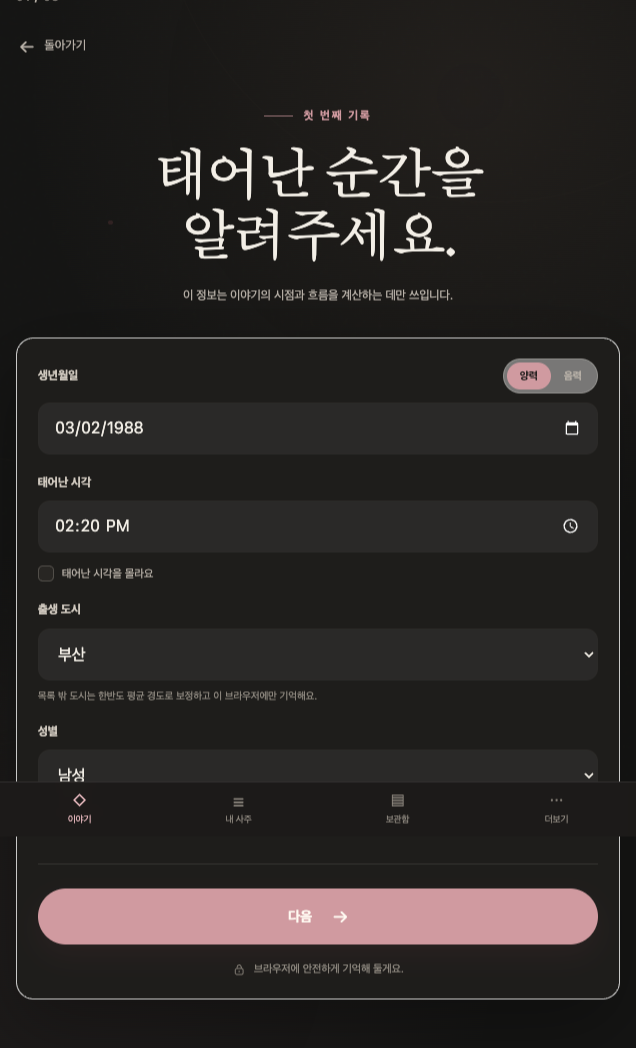
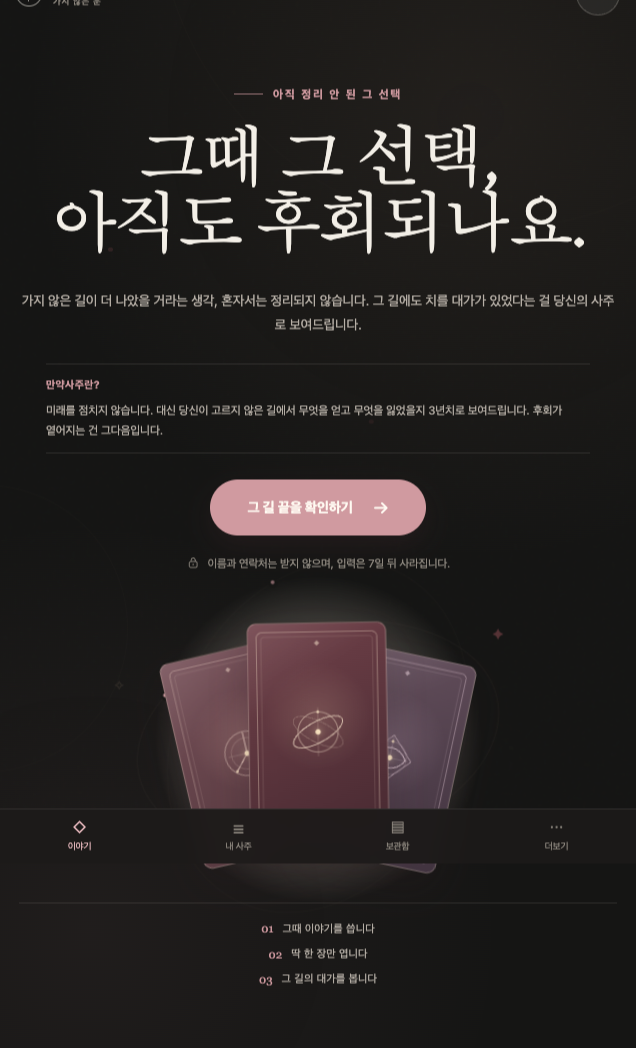
chore: 새 카피 반영해 제출용 스크린샷 재촬영
카피를 바꿨으니 이전 스크린샷은 낡았다. 심사에 올린 화면과 실제 앱이
다르면 그 자체가 문제다.

배포 리비전 014 를 실제로 캡처했다. 랜딩 헤드라인이 '그때 그 선택,
아직도 후회되나요.' 로 바뀐 것, 3단계가 '그때 이야기를 씁니다 / 딱 한
장만 엽니다 / 그 길의 대가를 봅니다' 로 바뀐 것을 화면에서 확인했다.

Claude-Session: https://claude.ai/code/session_013mm5WUY4YboMtXpit5km98

diff --git a/scripts/test-logo-candidates.tsx b/scripts/test-logo-candidates.tsx
@@ -1,0 +1,114 @@
+import { mkdirSync, writeFileSync } from "node:fs";
+import { resolve } from "node:path";
+import { ImageResponse } from "next/og";
+
+const OUT = resolve(process.cwd(), "scratch/logo-candidates");
+const SIZE = 600;
+
+// Color tokens
+const WINE = "#713e43";
+const WINE_DARK = "#d09aa0";
+const PAPER = "#f6f3ed";
+const PAPER_DARK = "#151514";
+const INK = "#20201e";
+const INK_DARK = "#f6f3ed";
+
+/**
+ * Supreme Harmonic Fork (수학적 조화와 황금비율의 만약사주 로고)
+ */
+function SupremeHarmonicFork({ mode }: { mode: "light" | "dark" }) {
+  const bg = mode === "light" ? PAPER : PAPER_DARK;
+  const stroke = mode === "light" ? INK : INK_DARK;
+  const strokeSub = mode === "light" ? "rgba(32,32,30,0.68)" : "rgba(246,243,237,0.68)";
+  const ring = mode === "light" ? "rgba(32,32,30,0.34)" : "rgba(246,243,237,0.34)";
+  const ringFaint = mode === "light" ? "rgba(32,32,30,0.12)" : "rgba(246,243,237,0.12)";
+  const seal = mode === "light" ? WINE : WINE_DARK;
+  const sealHalo = mode === "light" ? "rgba(113,62,67,0.14)" : "rgba(208,154,160,0.14)";
+
+  // Geometry calculations (Centered at 50, 50)
+  // Branch radius R = 35
+  // Angles from top: 0 deg (center), -38 deg (left), +38 deg (right)
+  // cos(38 deg) ≈ 0.788, sin(38 deg) ≈ 0.6157
+  // Left: dx = -35 * 0.6157 = -21.55 => x = 28.45, dy = -35 * 0.788 = -27.58 => y = 22.42
+  // Right: x = 71.55, y = 22.42
+  // Center: x = 50, y = 15
+
+  return (
+    <div
+      style={{
+        width: SIZE,
+        height: SIZE,
+        background: bg,
+        display: "flex",
+        alignItems: "center",
+        justifyContent: "center",
+      }}
+    >
+      <svg width={SIZE * 0.78} height={SIZE * 0.78} viewBox="0 0 100 100" fill="none">
+        {/* Outer Circular Boundary */}
+        <circle cx="50" cy="50" r="45" stroke={ring} strokeWidth="1.5" />
+        
+        {/* 4 Cardinal Marks (사주팔자 4주: 연월일시 상징) */}
+        <line x1="50" y1="3" x2="50" y2="6.5" stroke={ring} strokeWidth="1.5" strokeLinecap="round" />
+        <line x1="50" y1="93.5" x2="50" y2="97" stroke={ring} strokeWidth="1.5" strokeLinecap="round" />
+        <line x1="3" y1="50" x2="6.5" y2="50" stroke={ring} strokeWidth="1.5" strokeLinecap="round" />
+        <line x1="93.5" y1="50" x2="97" y2="50" stroke={ring} strokeWidth="1.5" strokeLinecap="round" />
+
+        {/* Celestial Orbit Circles */}
+        <circle cx="50" cy="50" r="35" stroke={ringFaint} strokeWidth="0.75" />
+        <circle cx="50" cy="50" r="23" stroke={ringFaint} strokeWidth="0.75" strokeDasharray="1.5 2.5" />
+
+        {/* Subtle Horizontal Meridian */}
+        <line x1="16" y1="50" x2="84" y2="50" stroke={ringFaint} strokeWidth="0.6" strokeDasharray="2 3" />
+
+        {/* Past Root Path (시간의 시작 / 지나온 길) */}
+        <line x1="50" y1="85" x2="50" y2="50" stroke={stroke} strokeWidth="2.8" strokeLinecap="round" />
+
+        {/* Future Path 1: Chosen Path (수직의 중심 길) */}
+        <line x1="50" y1="50" x2="50" y2="15" stroke={stroke} strokeWidth="2.8" strokeLinecap="round" />
+
+        {/* Future Path 2: Left Branch (가지 않은 길 1) */}
+        <path
+          d="M 50 50 C 49 36, 38 29, 23.5 22.4"
+          stroke={strokeSub}
+          strokeWidth="2.4"
+          strokeLinecap="round"
+        />
+
+        {/* Future Path 3: Right Branch (가지 않은 길 2) */}
+        <path
+          d="M 50 50 C 51 36, 62 29, 76.5 22.4"
+          stroke={strokeSub}
+          strokeWidth="2.4"
+          strokeLinecap="round"
+        />
+
+        {/* Terminal Destiny Nodes (선택지에 맺히는 운명의 결실) */}
+        <circle cx="23.5" cy="22.4" r="2.8" fill={seal} />
+        <circle cx="50" cy="15" r="3.2" fill={seal} />
+        <circle cx="76.5" cy="22.4" r="2.8" fill={seal} />
+        <circle cx="50" cy="85" r="2" fill={stroke} />
+
+        {/* Center Turning Point / Crimson Seal (선택의 갈림길 중심 인장) */}
+        <circle cx="50" cy="50" r="10" fill={sealHalo} />
+        <circle cx="50" cy="50" r="7" fill={mode === "light" ? "#fbf9f5" : "#191817"} stroke={seal} strokeWidth="1.5" />
+        <circle cx="50" cy="50" r="4.2" fill={seal} />
+      </svg>
+    </div>
+  );
+}
+
+async function write(name: string, element: React.ReactElement) {
+  const response = new ImageResponse(element, { width: SIZE, height: SIZE });
+  const buffer = Buffer.from(await response.arrayBuffer());
+  writeFileSync(resolve(OUT, name), buffer);
+}
+
+async function main() {
+  mkdirSync(OUT, { recursive: true });
+  await write("supreme-light.png", <SupremeHarmonicFork mode="light" />);
+  await write("supreme-dark.png", <SupremeHarmonicFork mode="dark" />);
+  console.log("Supreme Harmonic Fork rendered!");
+}
+
+main().catch(console.error);
